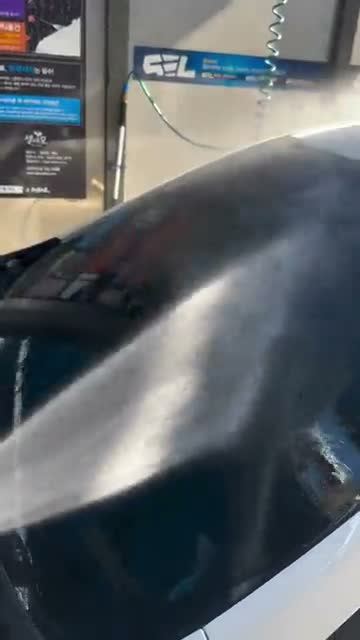
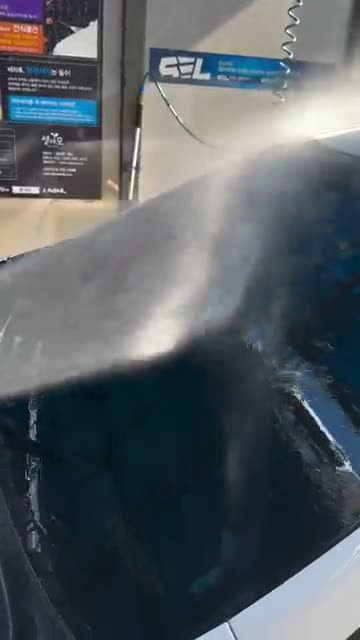
guide: v3 마감 — alt 수정, 스트립 안내 문구, 절차 문장, 유리 영상 포스터

diff --git a/guide/index.html b/guide/index.html
@@ -464,7 +464,7 @@
   <ol class="pick">
     <li><span class="n">1</span><div><b>예약·일정 확정</b><span>차종·차량 위치·주소를 받아 가능한 날짜와 시간을 확정합니다. 예약금 <em>2만원</em> 안내 후 일정을 고정합니다.</span></div></li>
     <li><span class="n">2</span><div><b>차량 위치 확인 및 픽업</b><span>차량을 찾으러 갈 때 <em>픽업 전 상태</em>(스크래치·오염·파손·짐)을 사진으로 함께 확인합니다.</span></div></li>
-    <li><span class="n">3</span><div><b>전용 공간 맞춤 시공</b><span>선택한 코스(기본케어/프리미엄 케어)에 따라 실외 → 휠·타이어 → 실내 → 유리 순서로 부위별 작업합니다. 차량 상태에 따른 추가 작업은 <em>먼저 안내</em>드립니다.</span></div></li>
+    <li><span class="n">3</span><div><b>전용 공간 맞춤 시공</b><span>선택한 코스(기본케어/프리미엄 케어)에 따라 실외·휠·타이어·실내·유리 순서로 부위별 작업합니다. 차량 상태에 따른 추가 작업은 <em>먼저 안내</em>드립니다.</span></div></li>
     <li><span class="n">4</span><div><b>마감 검수·사진 안내</b><span>작업 후 물기·잔여 오염·틈새까지 검수하고, 완료 상태를 <em>사진으로 보내드립니다</em>.</span></div></li>
     <li><span class="n">5</span><div><b>차량 인도 및 결제</b><span>원래 차량 자리로 인도한 뒤 정산합니다. 추가 작업이 있었다면 사전에 안내한 금액으로만 정산합니다.</span></div></li>
   </ol>
@@ -631,11 +631,11 @@
     <div class="bchip"><div class="lg"><img src="assets/brands/kochchemie.svg" alt="Koch-Chemie 로고" loading="lazy"></div><b>코흐케미</b><span>독일 · 산업용 기반 세정제</span></div>
     <div class="bchip dk"><div class="lg"><img src="assets/brands/carpro.svg" alt="CarPro 로고" loading="lazy"></div><b>카프로</b><span>미국 · 철분 제거·코팅</span></div>
     <div class="bchip"><div class="lg"><img src="assets/brands/sonax.png" alt="SONAX 로고" loading="lazy"></div><b>소낙스</b><span>독일 · 세차·광택 대표 브랜드</span></div>
-    <div class="bchip"><div class="lg"><img src="assets/brands/meguiars.png" alt="Meguiar\'s 로고" loading="lazy"></div><b>맥과이어스</b><span>미국 · 왁스·컴파운드</span></div>
+    <div class="bchip"><div class="lg"><img src="assets/brands/meguiars.png" alt="Meguiar&#39;s 로고" loading="lazy"></div><b>맥과이어스</b><span>미국 · 왁스·컴파운드</span></div>
     <div class="bchip"><div class="lg"><img src="assets/brands/soft99.png" alt="SOFT99 로고" loading="lazy"></div><b>소프트99</b><span>일본 · 발수 왁스 강자</span></div>
     <div class="bchip dk"><div class="lg"><img src="assets/brands/autofinesse-white.png" alt="Auto Finesse 로고" loading="lazy"></div><b>오토피네스</b><span>영국 · 디테일링 케어</span></div>
   </div>
-  <p class="strip-hint">← 옆으로 넘기면 <b>10개 브랜드</b> 전부 보입니다</p>
+  <p class="strip-hint">옆으로 넘기면 <b>10개 브랜드</b> 전부 보입니다 →</p>
 
   <details class="acc" open>
     <summary>
